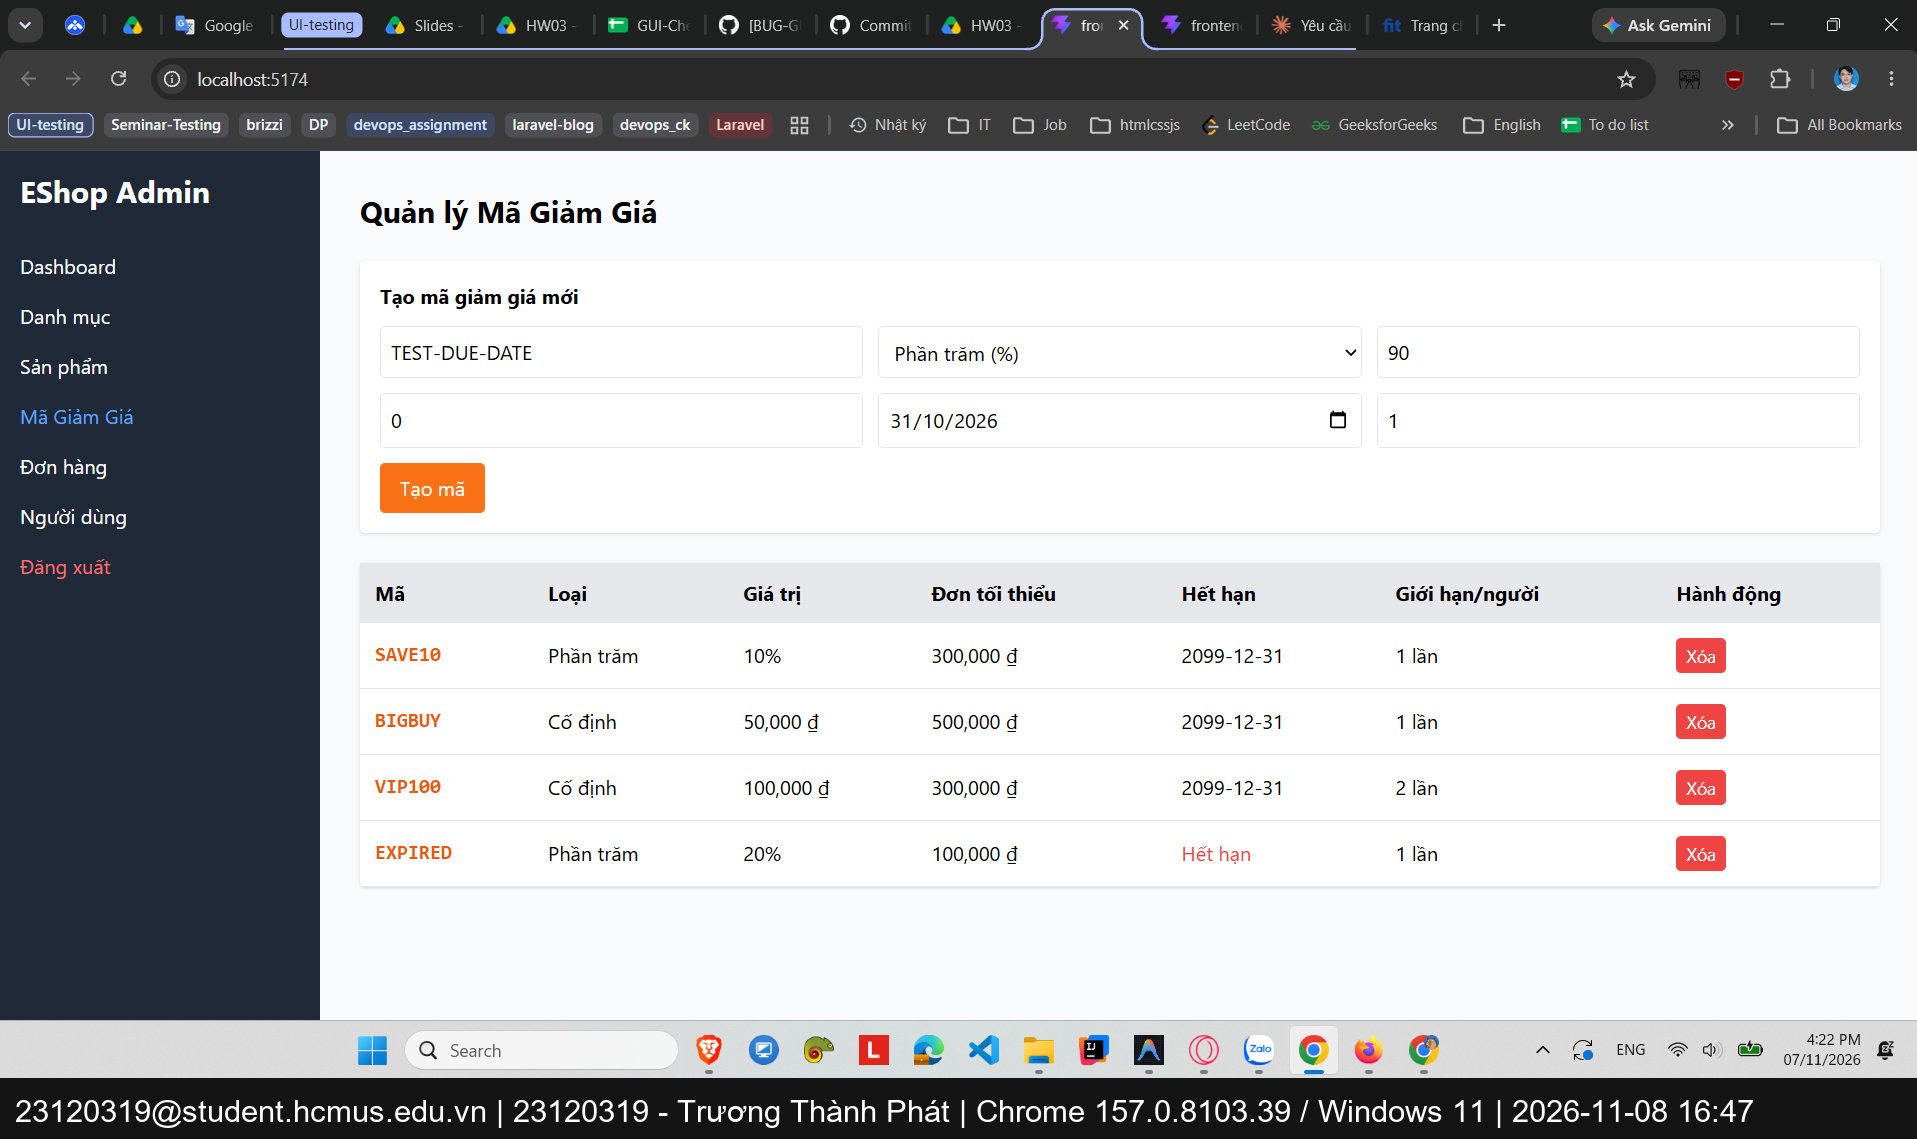
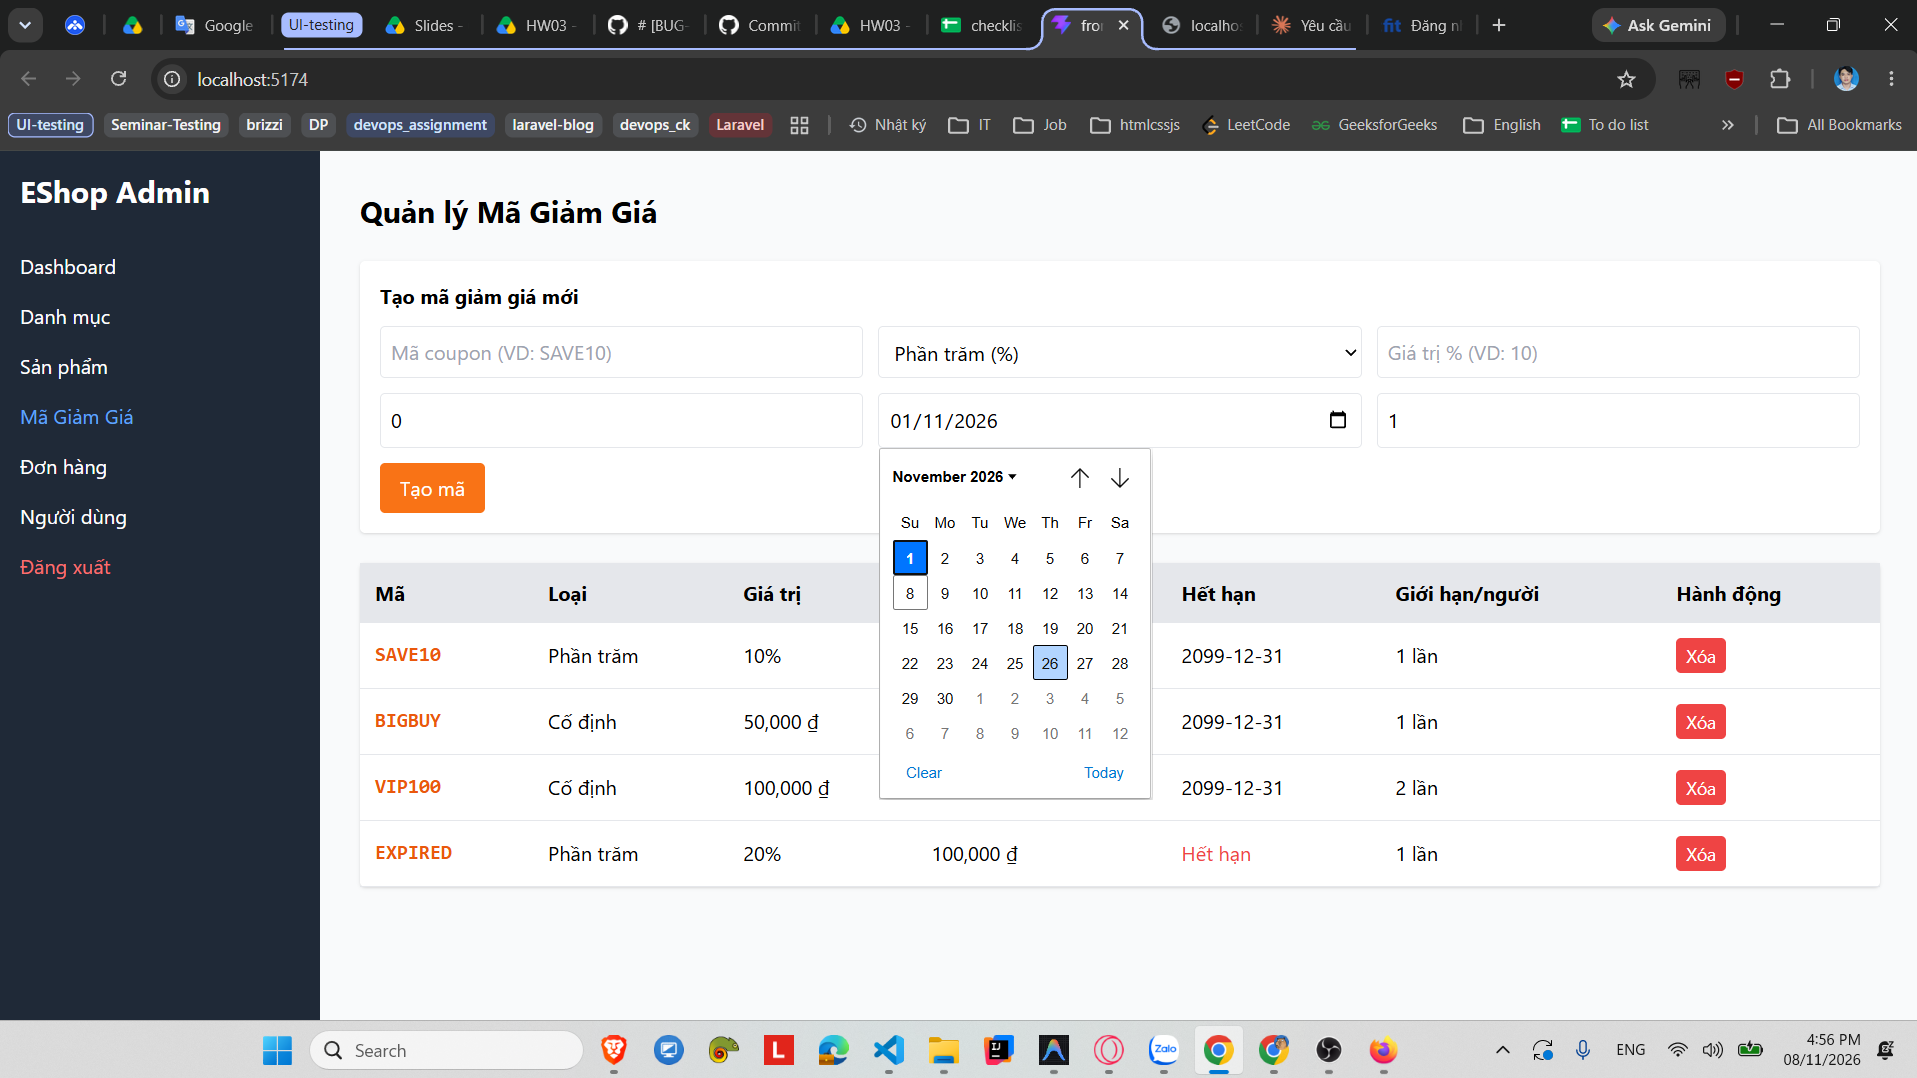
chore(HW3): update evidence

diff --git a/HW3/report/cross-platform-report.md b/HW3/report/cross-platform-report.md
@@ -82,7 +82,7 @@ Báo cáo này tài liệu hóa kết quả thực thi kiểm thử giao diện 
 - **Thiết bị kiểm thử:** Realme C53 (Màn hình IPS LCD 6.74", độ phân giải HD+ 90Hz, thiết kế giọt nước Mini Capsule).
 - **Hệ điều hành:** Android 15 (Realme UI T Edition).
 - **Môi trường thực thi:** Expo Go SDK 54.
-- **Phương thức kết nối:** Wi-Fi Local Area Network / Metro Bundler Tunnel.
+- **Phương thức kết nối:** Wi-Fi Local Area Network
 
 | Item ID | Màn hình di động | Tiêu chí kiểm tra tóm tắt | Kết quả trên Android (Expo Go) | Ghi chú hành vi quan sát thực tế / Minh chứng ảnh |
 |:---:|:---|:---|:---:|:---|
